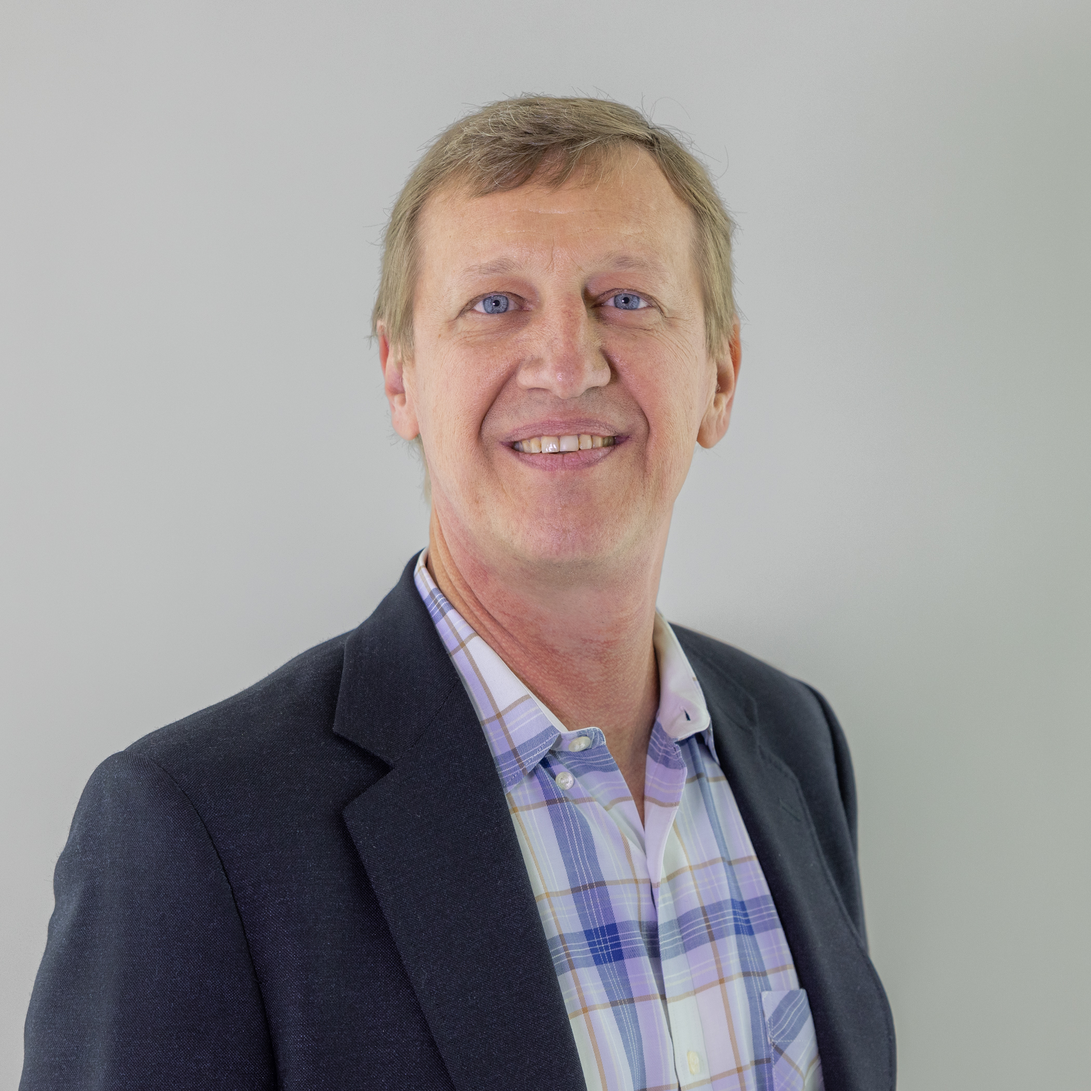
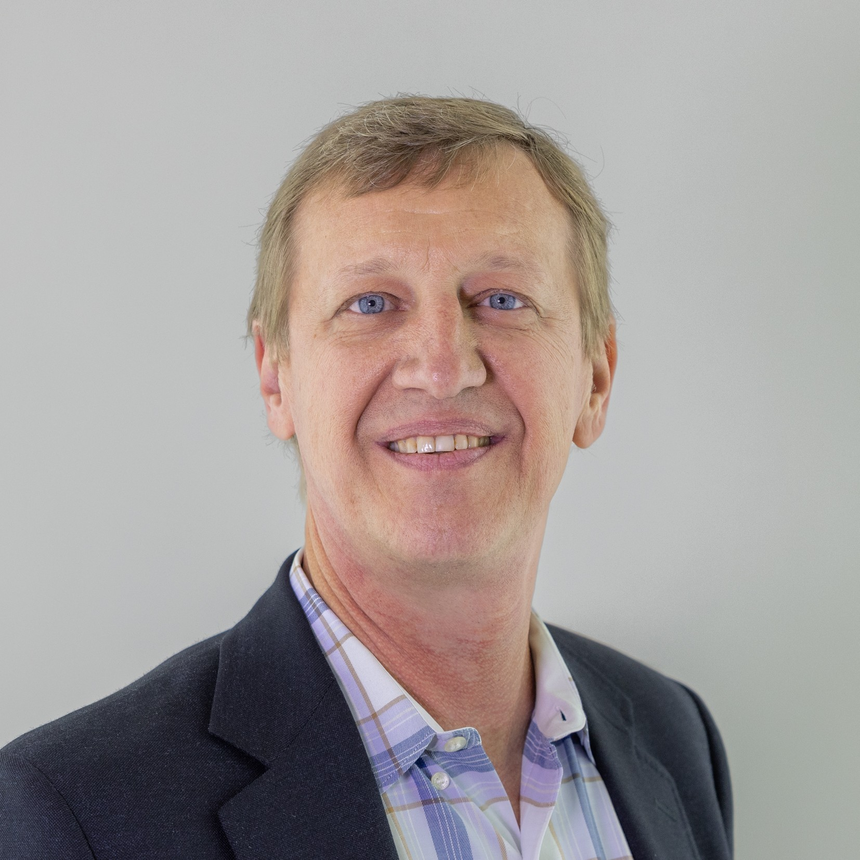
Added Doug Greeley quote

diff --git a/src/Projects/Thimble/Thimble.jsx b/src/Projects/Thimble/Thimble.jsx
@@ -18,6 +18,7 @@ import MIDDLE_STAGE_CAD_IMAGE from './Middle Stage Full CAD.jpg';
 import FULL_ASSEMBLY_CAD_IMAGE from './Full Assembly CAD.png';
 
 import THOMAS_WYNNE_IMAGE from './thomas-wynne.jpg';
+import DOUG_GREELEY_IMAGE from './doug-greeley.png';
 
 import './thimble.css';
 
@@ -147,6 +148,13 @@ export default function Thimble() {
           ]}
         />
       </Section>
+      <Quote
+        quote="I'm enthused!"
+        name="Doug Greeley"
+        context={`Former Deputy Commissioner of the Bureau of Water and Sewer Operations Doug Greeley,
+                  NYC Department of Environmental Protection`}
+        imageSource={DOUG_GREELEY_IMAGE}
+      />
     </div>
   );
 }

diff --git a/src/Quote/quote.css b/src/Quote/quote.css
@@ -14,9 +14,14 @@ aside.quote .text {
   justify-content: space-between;
   gap: 1rem;
 }
-aside.quote q {
+aside.quote .text > div:first-child {
   font-style: italic;
   font-size: 1.25rem;
+  text-align: center;
+  display: flex;
+  flex-grow: 1;
+  justify-content: space-around;
+  align-items: center;
 }
 aside.quote .name,
 aside.quote .context {

diff --git a/src/Quote/Quote.jsx b/src/Quote/Quote.jsx
@@ -12,7 +12,9 @@ export default function Quote({
   return (
     <aside className="quote">
       <div className="text">
-        <q>{quote}</q>
+        <div>
+          <q>{quote}</q>
+        </div>
         <div>
           <span className="name">{name}</span>
           {context && <span className="context">{context}</span>}
